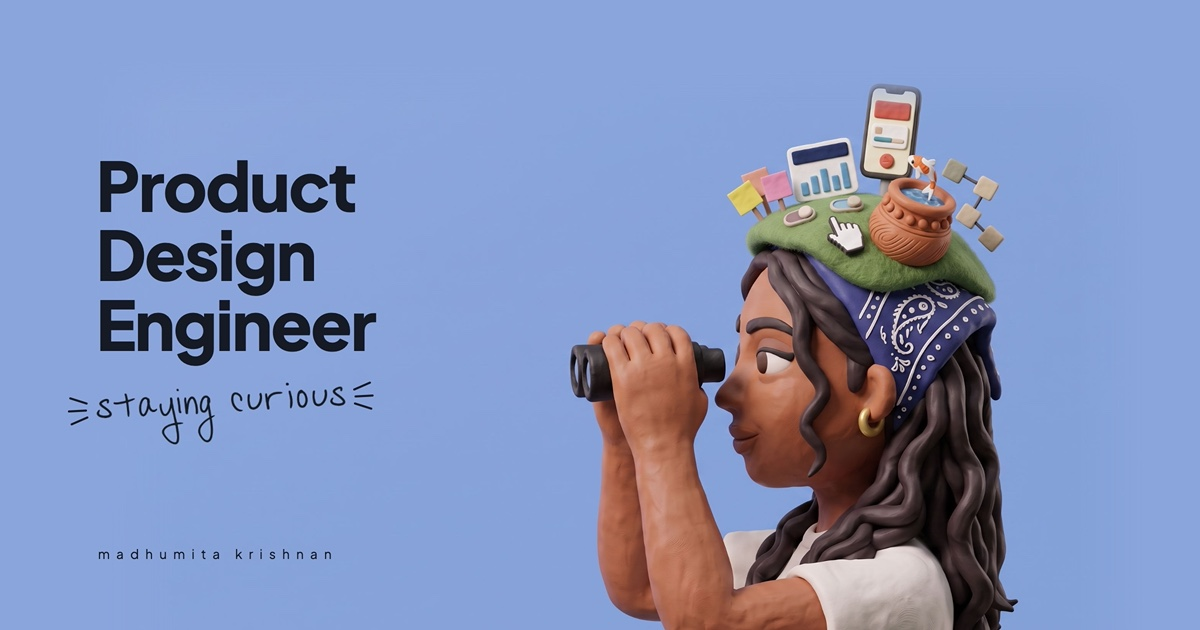
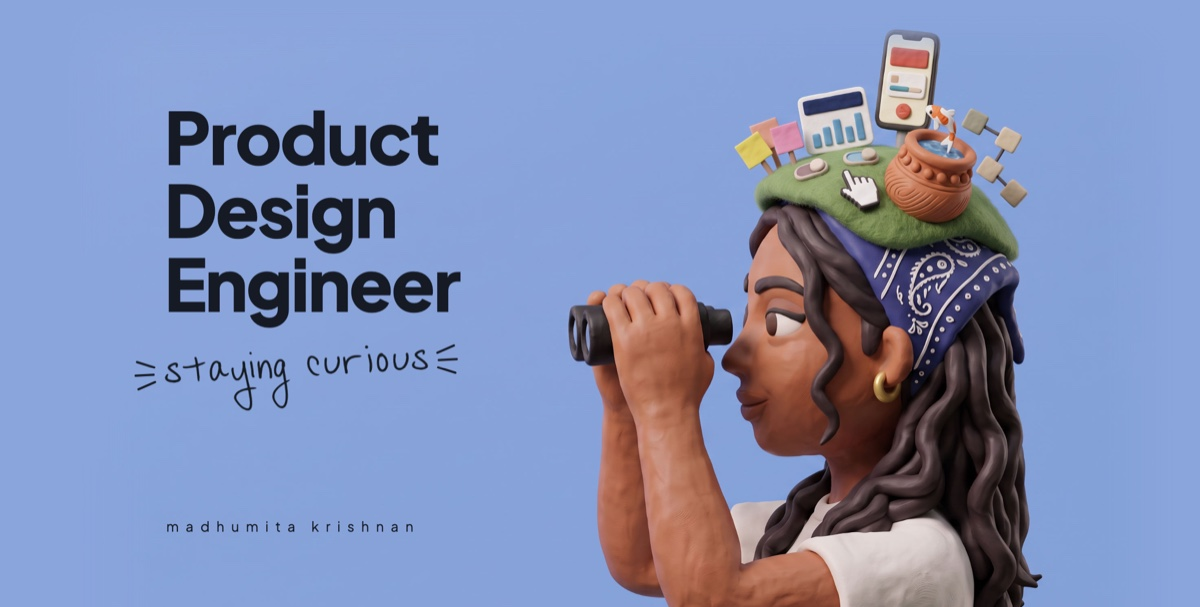
Link picture: her crop, centred so LinkedIn's Experience box keeps the words and her hair
LinkedIn shows Experience media at ~1.58:1 cut from the middle; the old layout lost the words' left edge and her hair.
Less sky above (her crop), composition centred, 1200x607, og:image share.jpg?v=5.

diff --git a/build.js b/build.js
@@ -3163,7 +3163,7 @@ function bootJS() {
    square, get curious-square.jpg, composed for a square; every other app gets the wide curious.jpg. A virtual path because
    Vercel serves a real file before it ever looks at a rewrite.
    Absolute URL: preview crawlers don't resolve relative ones */
-const OG = { f: 'assets/og/share.jpg?v=3', w: 1200, h: 630, type: 'image/jpeg' };   // ?v=2 (2026-10-29): her clay world now has room above it (an iPhone preview trimmed the top); a new address so apps that cached v1 fetch it again
+const OG = { f: 'assets/og/share.jpg?v=5', w: 1200, h: 607, type: 'image/jpeg' };   // v5 (2026-10-29): her crop (less sky), and the whole composition centred so LinkedIn's Experience box (~1.58:1, cut from the middle) keeps the words and her hair   // ?v=2 (2026-10-29): her clay world now has room above it (an iPhone preview trimmed the top); a new address so apps that cached v1 fetch it again
 function head(title, desc, boot, card) {   // card: {title, line} for the home link preview; never the page description (her old copy), which apps would
   // otherwise show (her 2026-10-27: "can you remove the second line")
   const og = 'https://www.m--k.me/' + OG.f;   // DOMAIN is declared further down (used here before it exists)
